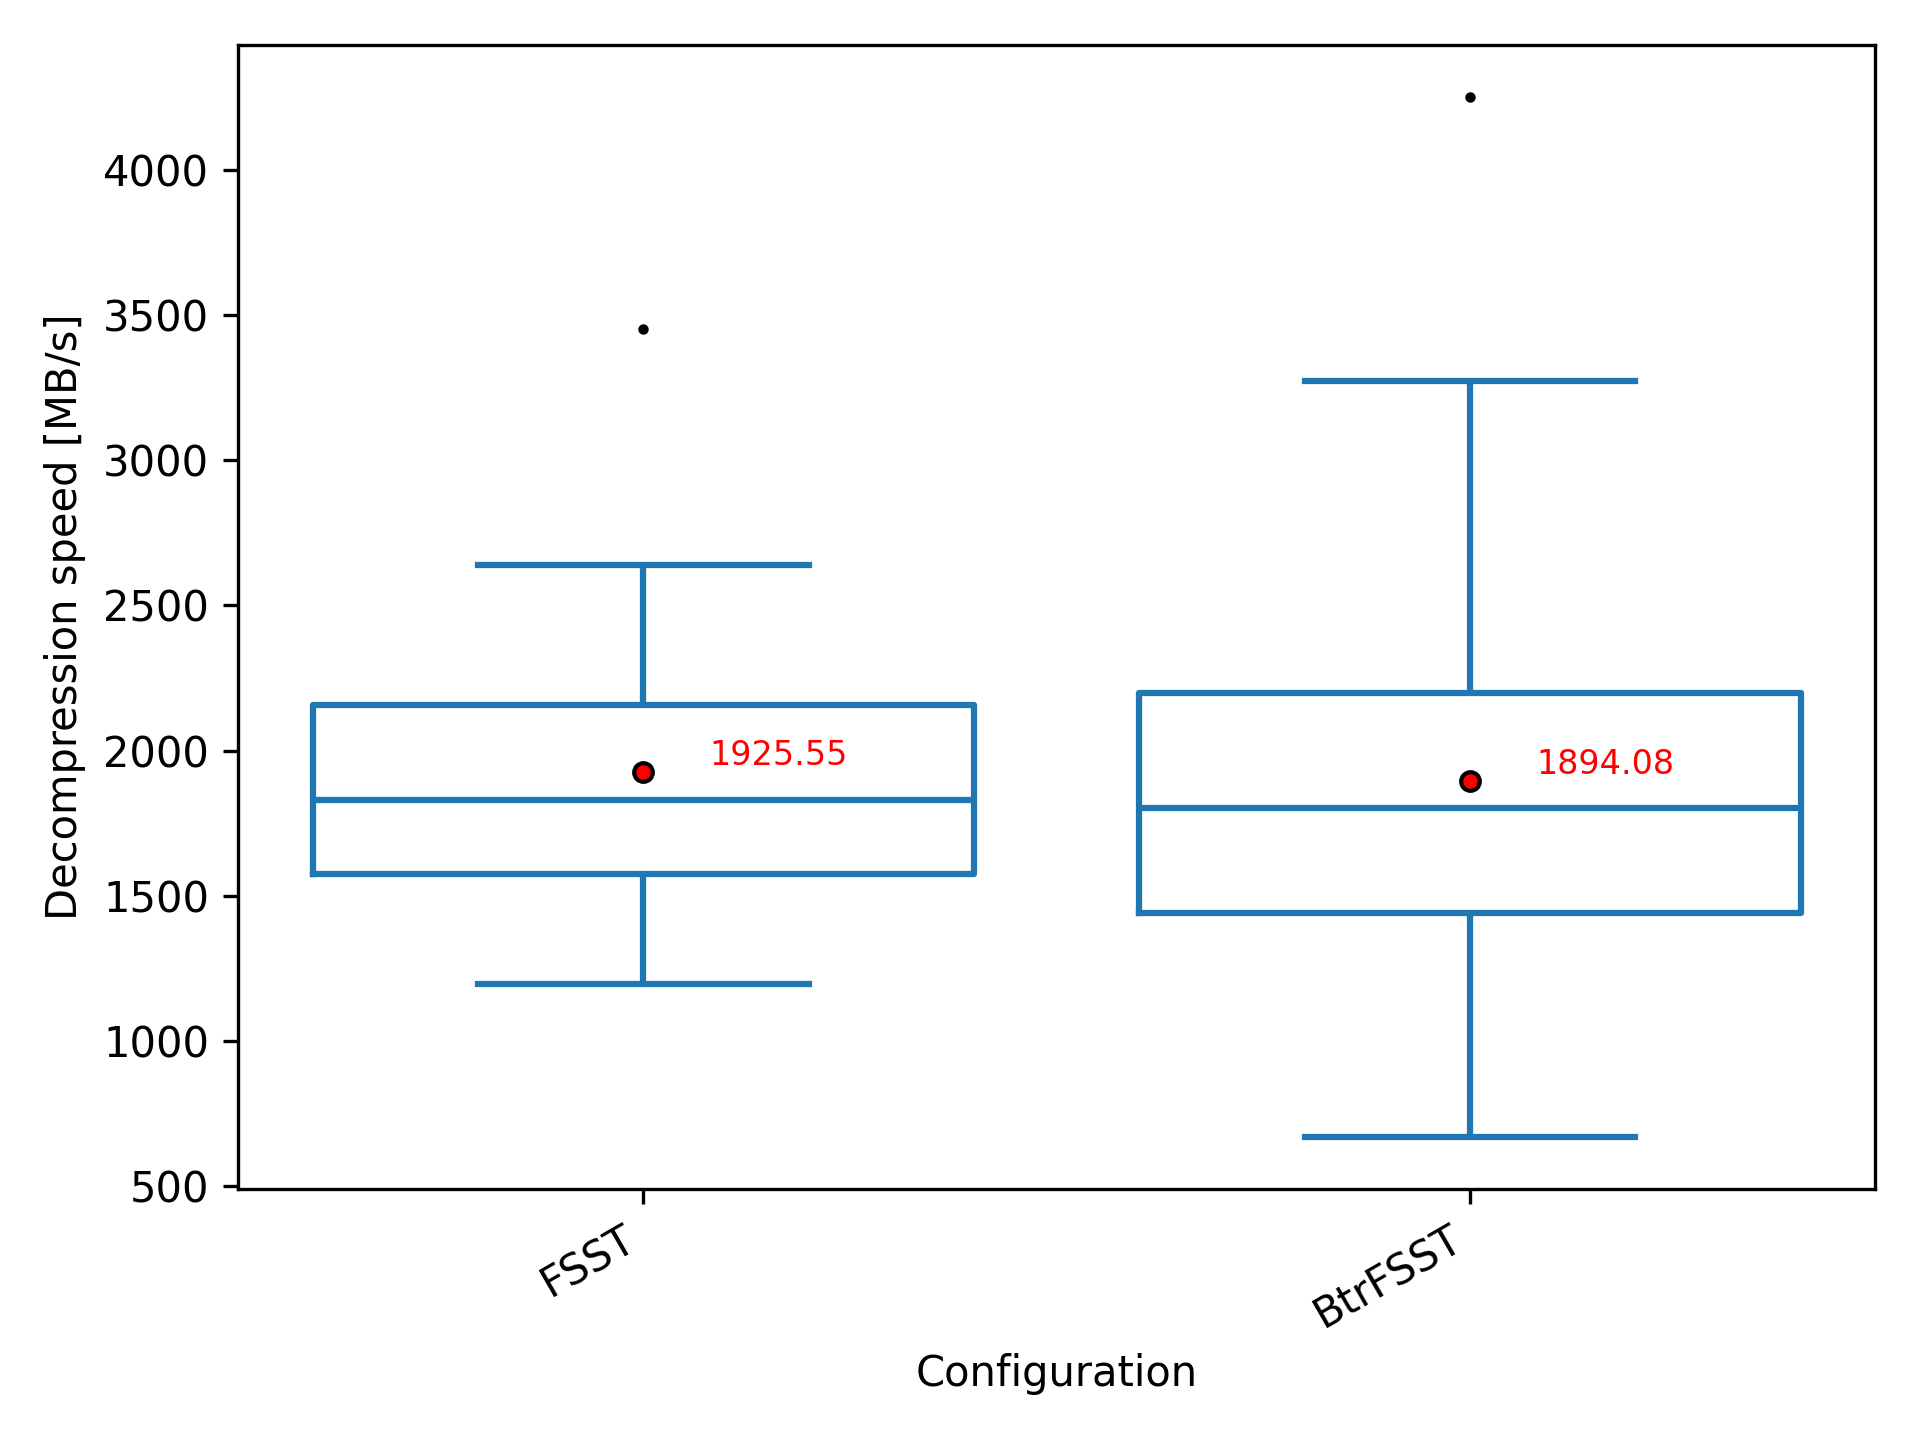
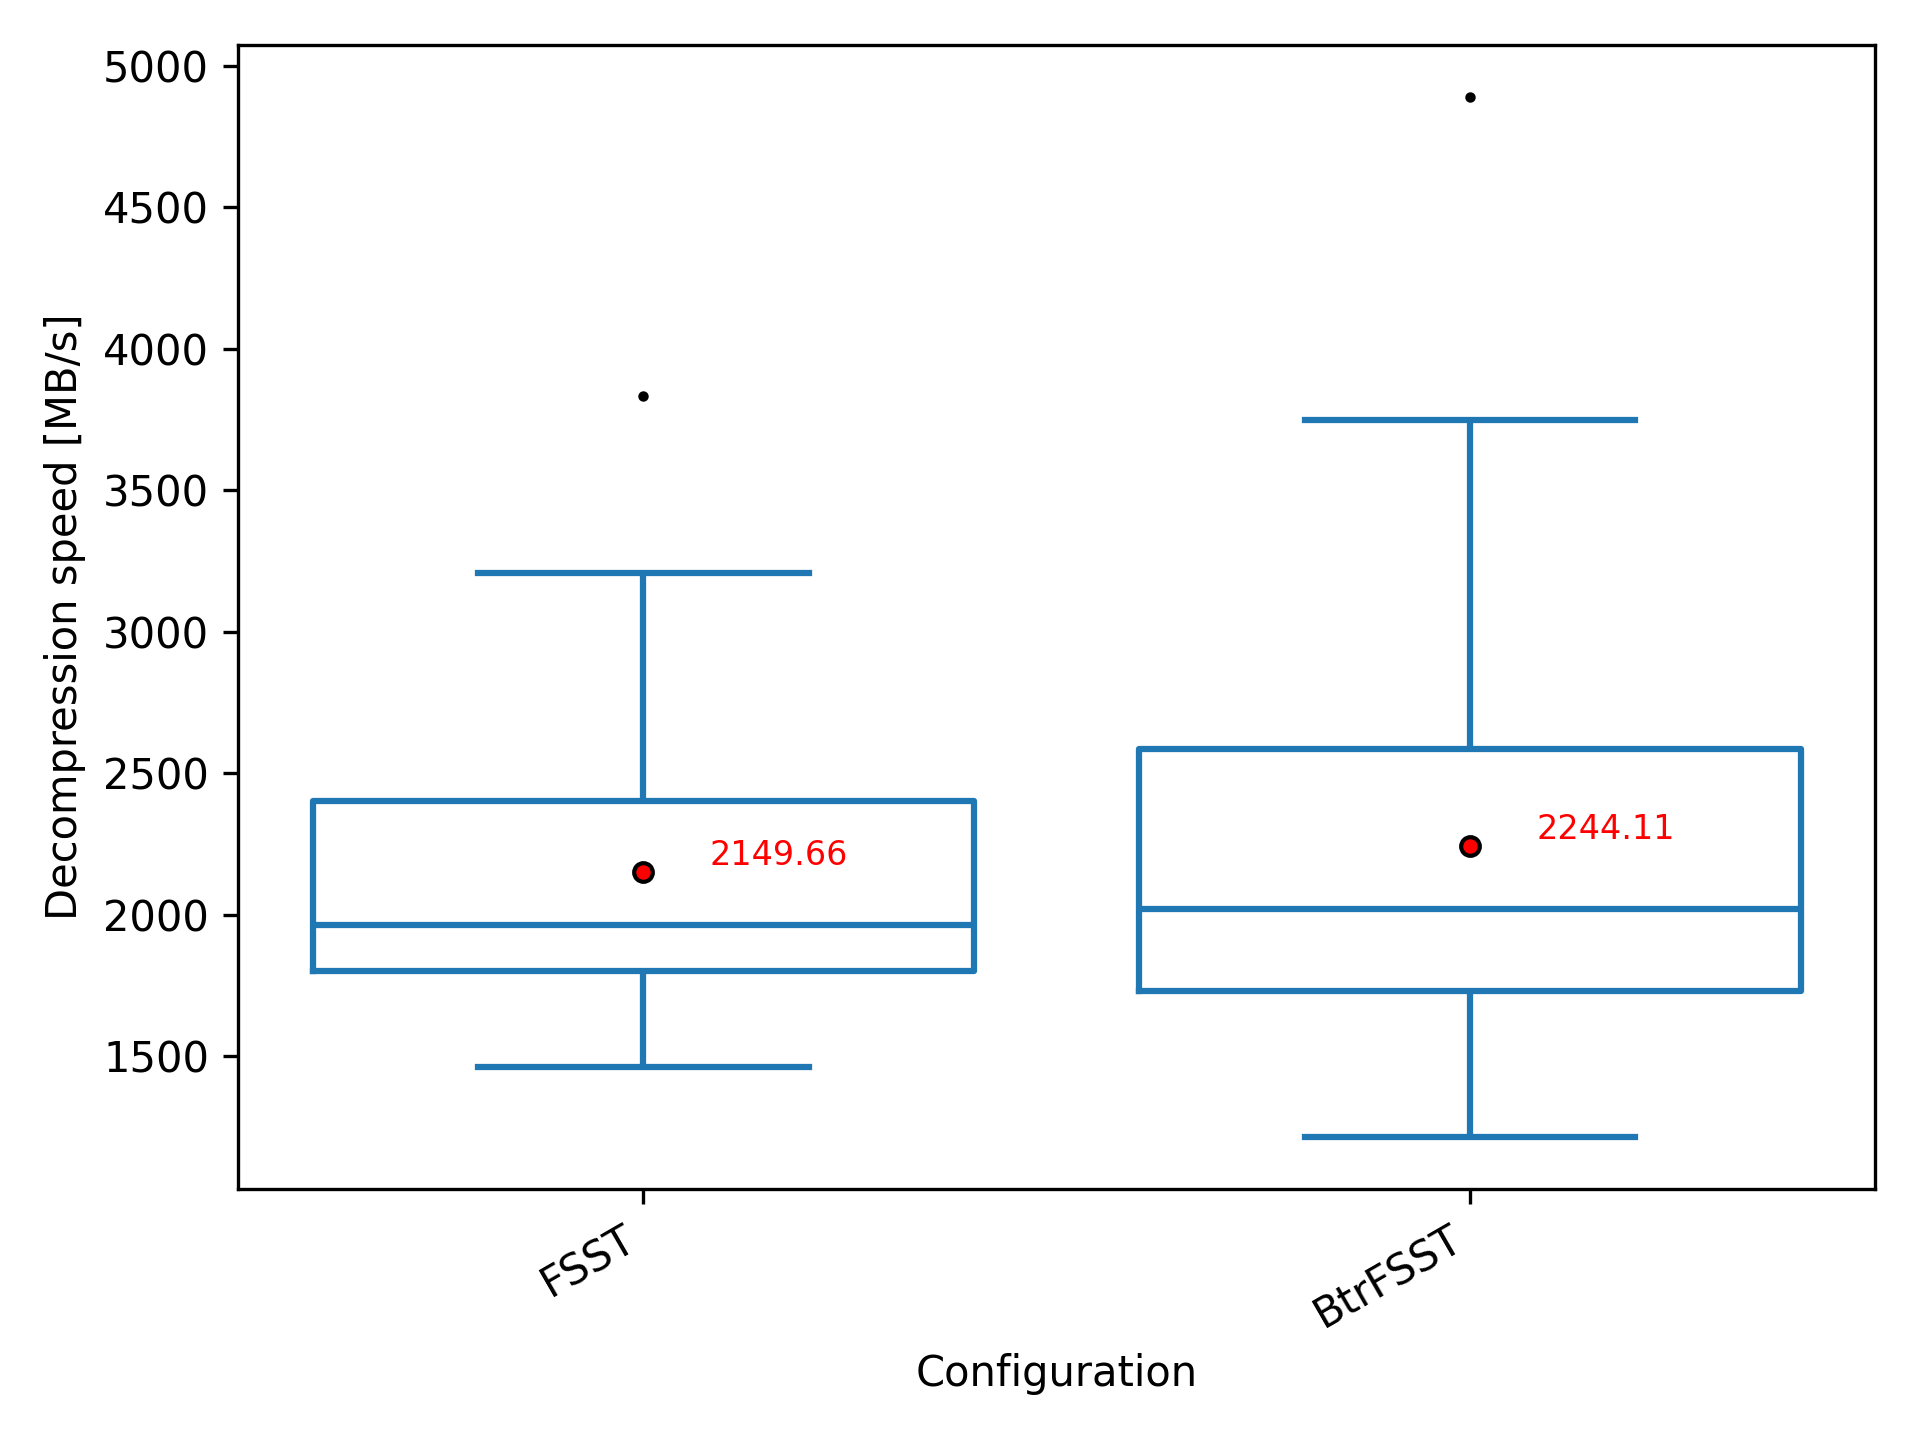
script in branch 'simd' to run dbtext benchmark

diff --git a/benchmarking/plot_results.py b/benchmarking/plot_results.py
@@ -2,6 +2,9 @@ import pandas as pd
 import numpy as np
 import matplotlib.pyplot as plt
 import seaborn as sns
+import sys 
+
+metric = ""
 
 def main(csv_path: str):
     df = pd.read_csv(csv_path)
@@ -53,11 +56,15 @@ def main(csv_path: str):
         )
 
     ax.set_xlabel("Configuration")
-    ax.set_ylabel("Decompression speed [MB/s]")
+    if metric[0] == 'c':
+        ax.set_ylabel("Compression speed [MB/s]")
+    else :
+        ax.set_ylabel("Decompression speed [MB/s]")
     plt.xticks(rotation=30, ha="right")
     plt.tight_layout()
-    out_png2 = "./plots/decompression_speed_dbtext.png"
+    out_png2 = "./plots/" + metric + ".png"
     plt.savefig(out_png2, dpi=300)
 
 if __name__ == "__main__":
-    main("./csv/decompression_speed_dbtext.csv")
+    metric = sys.argv[1]
+    main("./csv/"+ metric +".csv")